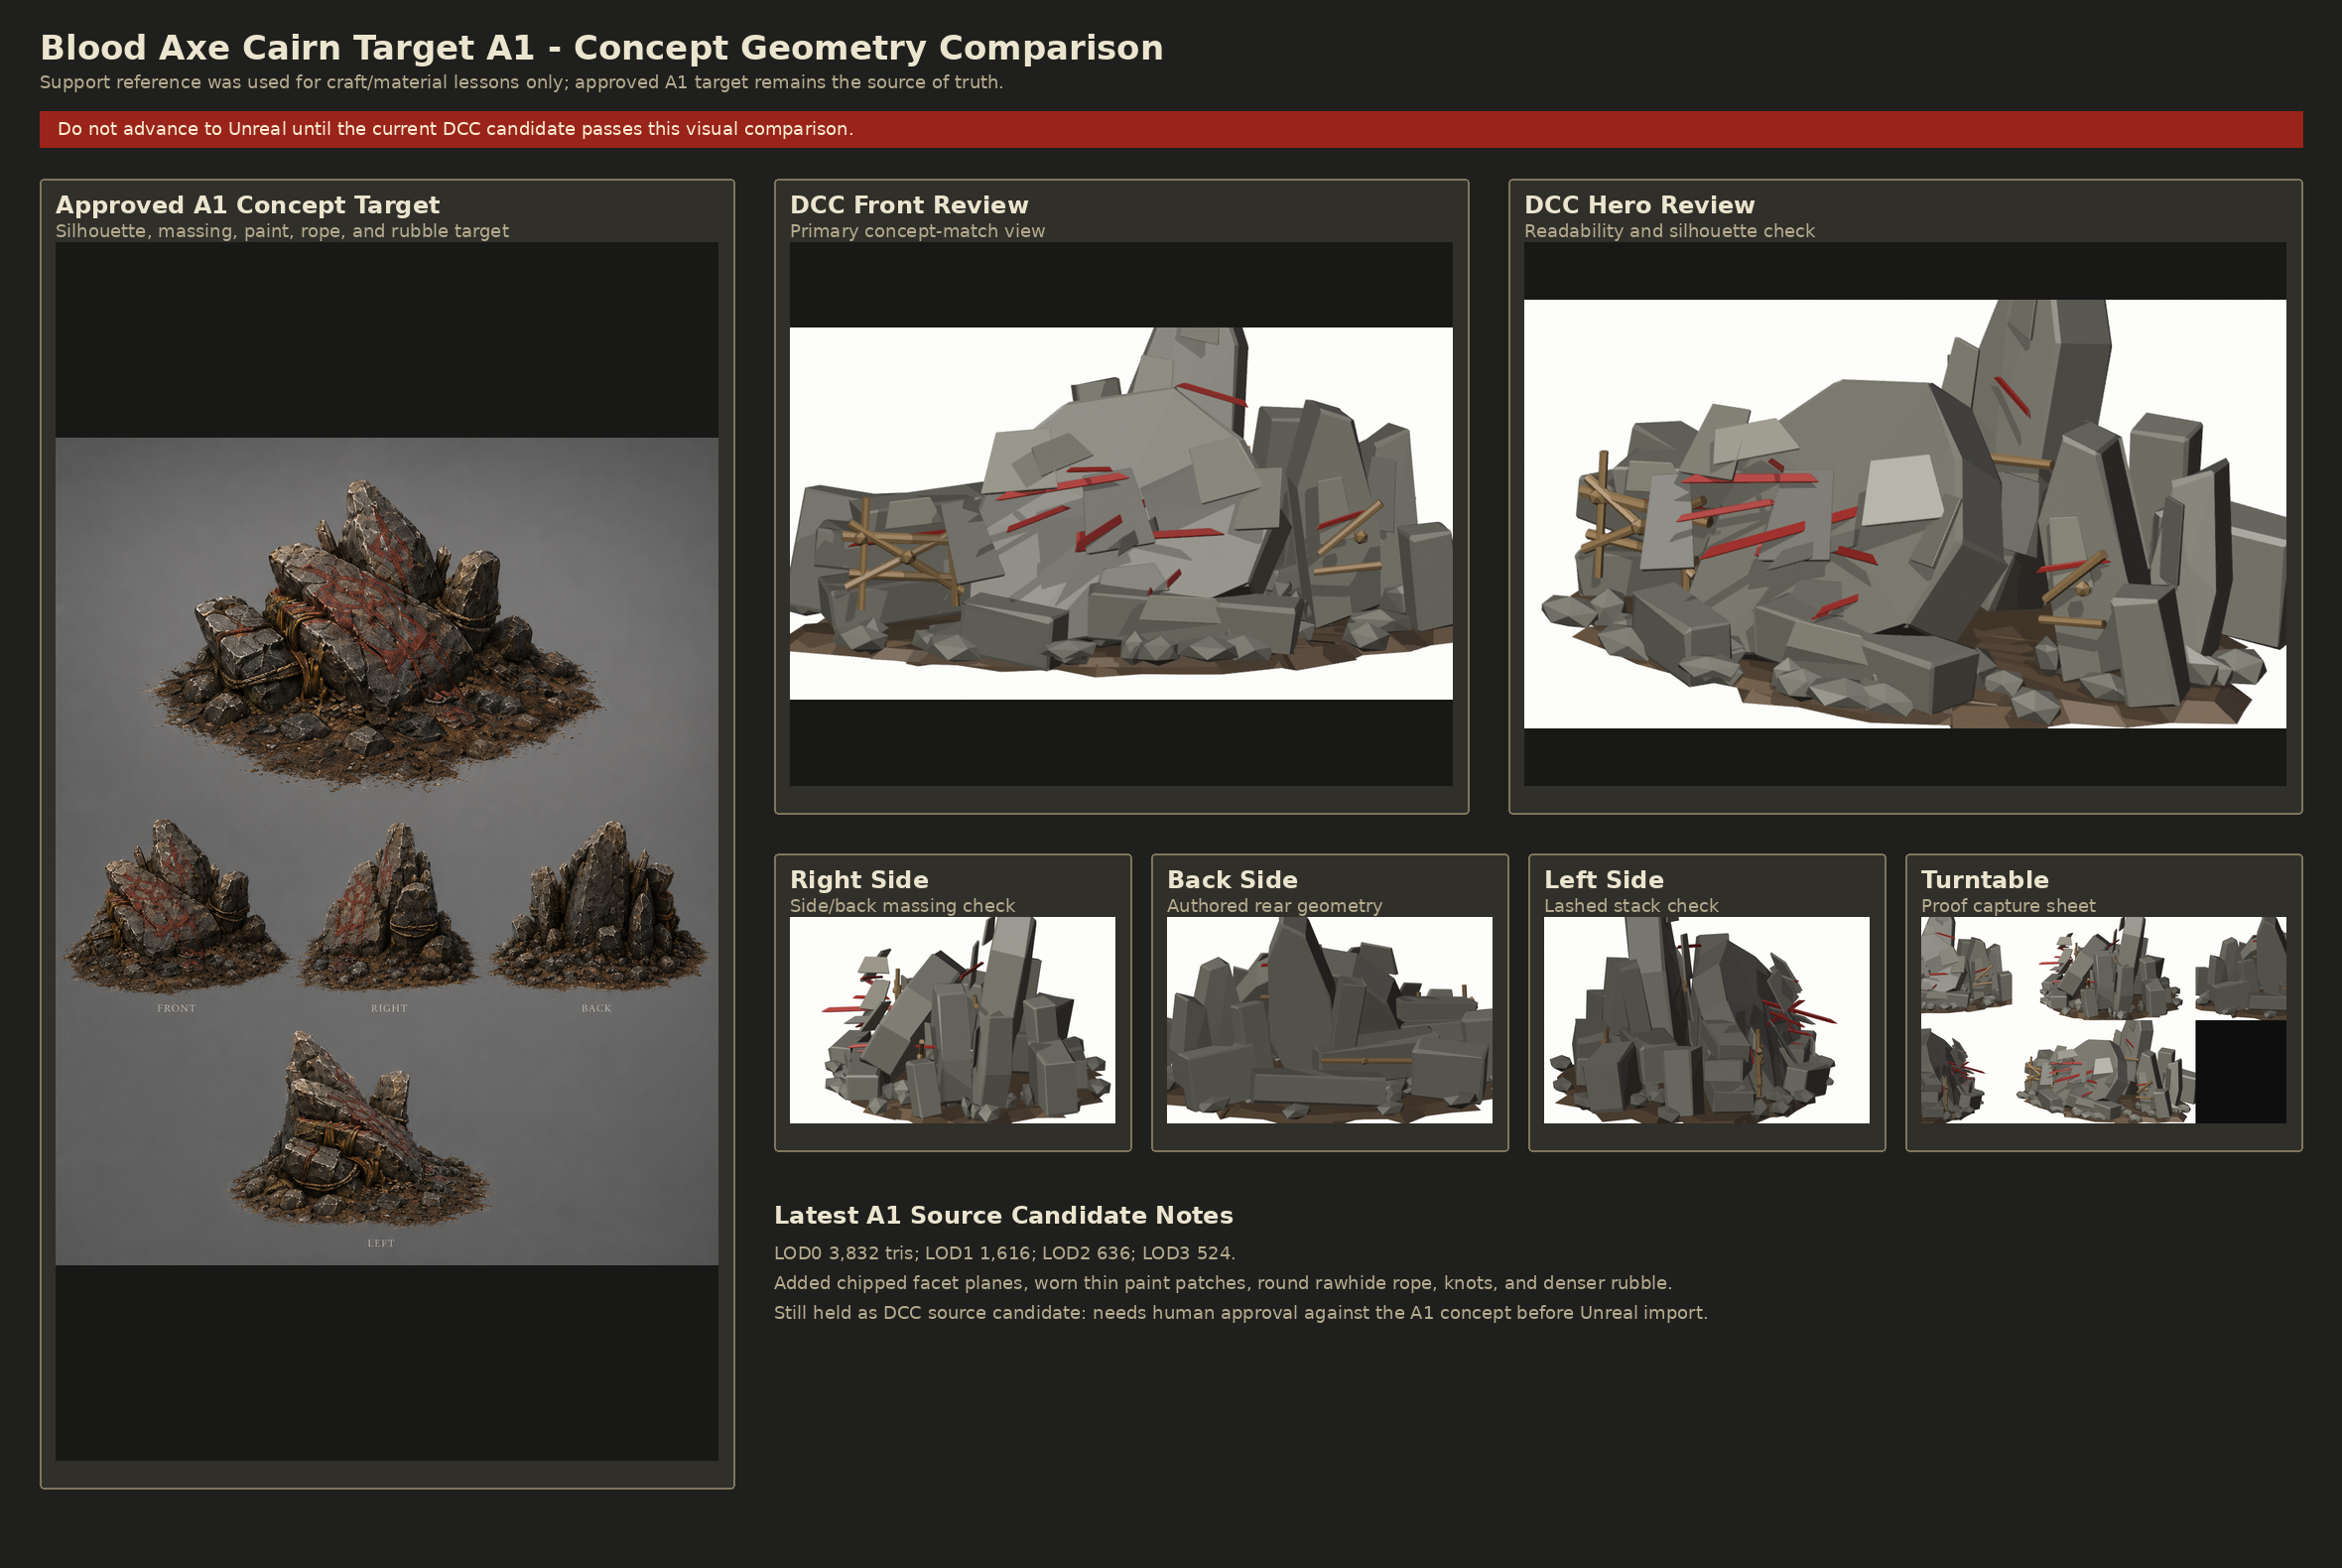
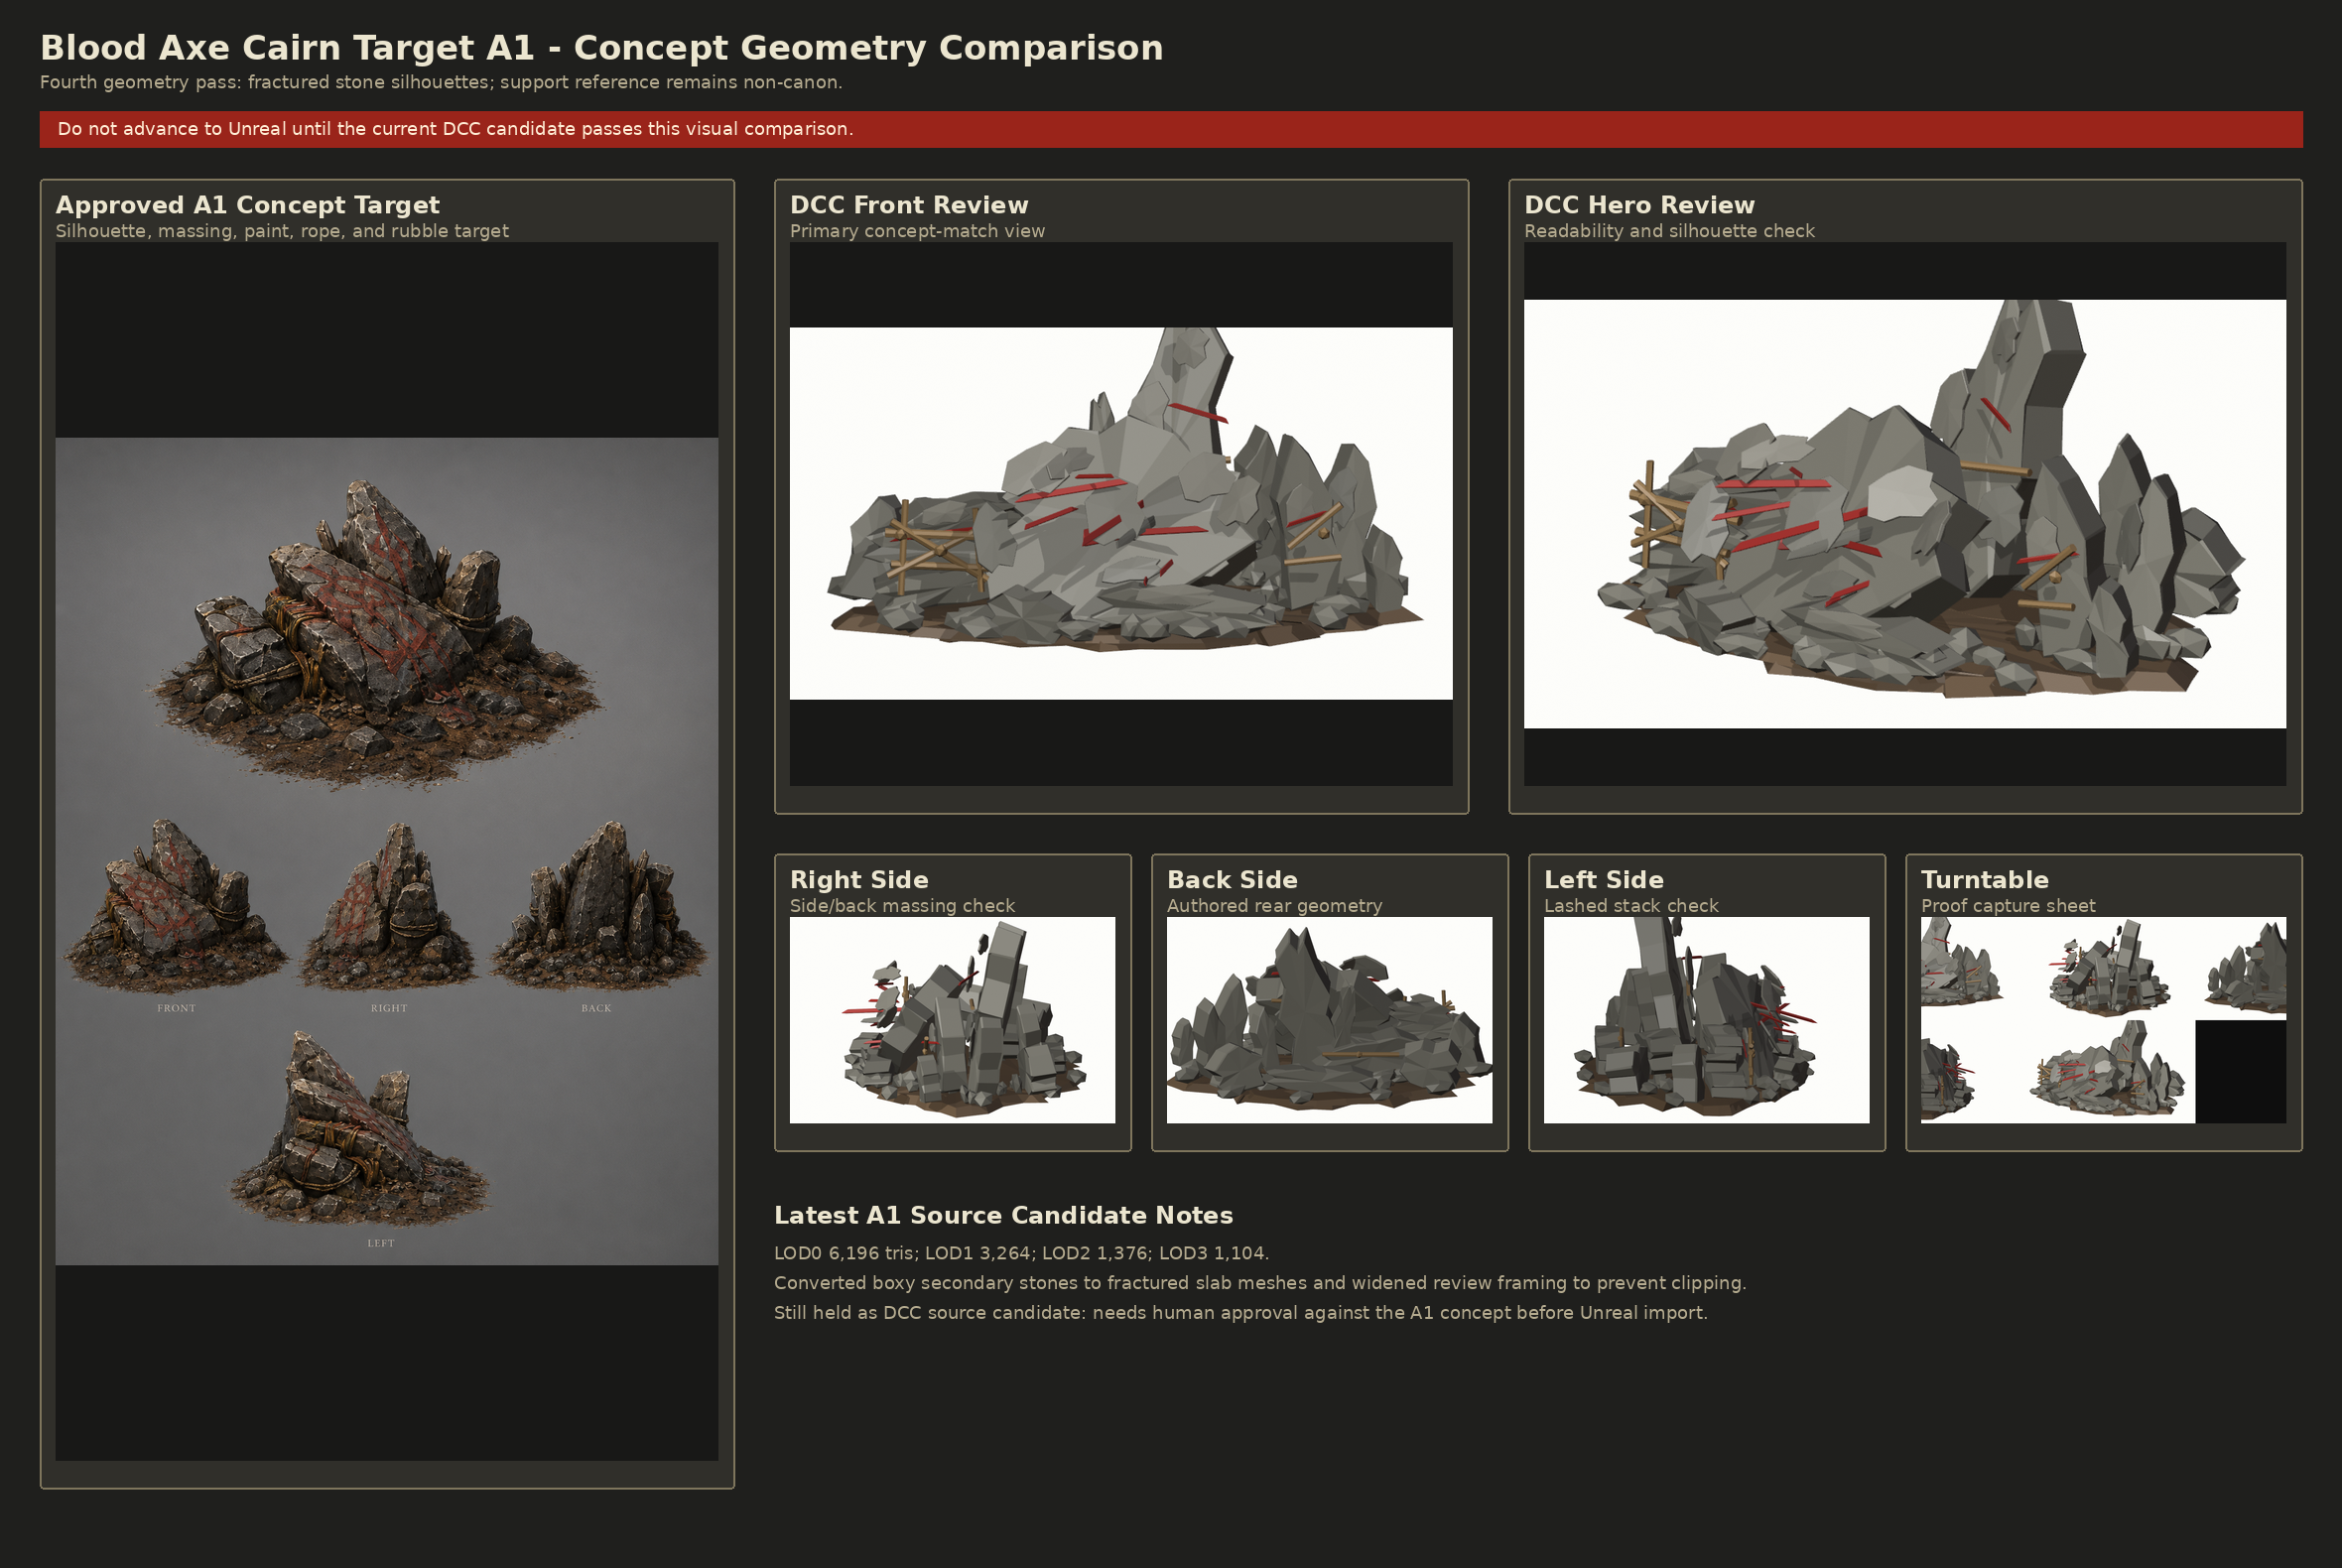
Refine Blood Axe A1 cairn geometry

diff --git a/Tools/DCC/build_bloodaxe_cairn_target_a1.py b/Tools/DCC/build_bloodaxe_cairn_target_a1.py
@@ -140,13 +140,13 @@ def make_materials(texture_paths: dict[str, dict[str, Path]]) -> dict[str, bpy.t
             "M_GIA_BloodAxeCairnTarget_A1_A01_StoneFacetLight",
             texture_paths["stone"],
             0.9,
-            (0.64, 0.59, 0.48),
+            (0.57, 0.53, 0.44),
         ),
         "stone_dark": make_texture_material(
             "M_GIA_BloodAxeCairnTarget_A1_A01_StoneFacetDark",
             texture_paths["stone"],
             0.93,
-            (0.34, 0.32, 0.27),
+            (0.38, 0.36, 0.30),
         ),
         "earth": make_texture_material("M_GIA_BloodAxeCairnTarget_A1_A01_Earth", texture_paths["earth"], 0.95, (0.32, 0.20, 0.11)),
         "rawhide": make_texture_material("M_GIA_BloodAxeCairnTarget_A1_A01_Rawhide", texture_paths["rawhide"], 0.86, (0.66, 0.40, 0.17)),
@@ -408,19 +408,28 @@ def add_surface_facet(
     rotation: tuple[float, float, float],
     seed: int,
 ) -> bpy.types.Object:
-    return add_tapered_slab(
+    facet_outline = [
+        (-0.50, -0.34),
+        (-0.27, -0.50),
+        (-0.04, -0.41),
+        (0.24, -0.49),
+        (0.50, -0.18),
+        (0.38, 0.08),
+        (0.47, 0.30),
+        (0.12, 0.51),
+        (-0.18, 0.40),
+        (-0.44, 0.20),
+    ]
+    return add_fractured_slab(
         name,
         collection,
         material,
         location,
         dimensions,
         rotation,
+        facet_outline,
         seed,
-        top_scale_x=0.70,
-        top_scale_y=0.90,
-        top_offset=((deterministic_noise(seed, 1, 43) - 0.5) * dimensions[0] * 0.12, 0.0),
-        bevel_scale=0.07,
-        rough_scale=0.05,
+        rough_scale=0.035,
     )
 
 
@@ -508,106 +517,141 @@ def build_asset_lod(collection: bpy.types.Collection, materials: dict[str, bpy.t
     mid = lod <= 1
     low = lod <= 2
 
+    broad_front_outline = [
+        (-0.53, -0.42),
+        (-0.39, -0.56),
+        (-0.20, -0.50),
+        (-0.06, -0.57),
+        (0.18, -0.49),
+        (0.35, -0.39),
+        (0.55, -0.18),
+        (0.46, -0.02),
+        (0.53, 0.15),
+        (0.34, 0.25),
+        (0.25, 0.43),
+        (0.08, 0.56),
+        (-0.07, 0.48),
+        (-0.20, 0.55),
+        (-0.32, 0.34),
+        (-0.48, 0.22),
+        (-0.38, 0.06),
+        (-0.55, -0.06),
+    ]
+    tall_crag_outline = [
+        (-0.42, -0.50),
+        (0.18, -0.52),
+        (0.38, -0.39),
+        (0.28, -0.21),
+        (0.49, -0.02),
+        (0.30, 0.19),
+        (0.36, 0.39),
+        (0.08, 0.58),
+        (-0.05, 0.48),
+        (-0.20, 0.55),
+        (-0.34, 0.31),
+        (-0.50, 0.12),
+        (-0.39, -0.04),
+        (-0.52, -0.28),
+    ]
+    support_crag_outline = [
+        (-0.45, -0.50),
+        (0.30, -0.49),
+        (0.48, -0.29),
+        (0.36, -0.10),
+        (0.51, 0.10),
+        (0.24, 0.42),
+        (-0.03, 0.54),
+        (-0.26, 0.35),
+        (-0.47, 0.18),
+        (-0.38, -0.06),
+    ]
+    low_slab_outline = [
+        (-0.52, -0.42),
+        (-0.37, -0.53),
+        (-0.12, -0.46),
+        (0.09, -0.54),
+        (0.38, -0.42),
+        (0.55, -0.14),
+        (0.43, 0.11),
+        (0.51, 0.31),
+        (0.18, 0.52),
+        (-0.07, 0.43),
+        (-0.30, 0.53),
+        (-0.50, 0.20),
+        (-0.40, -0.03),
+    ]
+
     fractured_specs = [
         (
             "DominantDiagonalFrontSlab",
-            (2, -43, 77),
-            (184, 36, 144),
-            (math.radians(-31), math.radians(-8), math.radians(-10)),
-            [
-                (-0.52, -0.43),
-                (-0.36, -0.55),
-                (0.08, -0.52),
-                (0.41, -0.37),
-                (0.54, -0.05),
-                (0.42, 0.24),
-                (0.18, 0.54),
-                (-0.14, 0.49),
-                (-0.36, 0.28),
-                (-0.50, 0.02),
-            ],
+            (0, -43, 72),
+            (176, 34, 136),
+            (math.radians(-32), math.radians(-9), math.radians(-12)),
+            broad_front_outline,
             201,
         ),
         (
             "TallRearOathSlab",
-            (36, 52, 112),
-            (74, 38, 184),
-            (math.radians(-10), math.radians(7), math.radians(-13)),
-            [
-                (-0.45, -0.47),
-                (0.31, -0.50),
-                (0.47, -0.18),
-                (0.38, 0.31),
-                (0.10, 0.56),
-                (-0.24, 0.44),
-                (-0.48, 0.03),
-            ],
+            (36, 52, 108),
+            (70, 34, 178),
+            (math.radians(-12), math.radians(8), math.radians(-11)),
+            tall_crag_outline,
             202,
         ),
         (
             "RightUprightSupportStone",
-            (122, -4, 76),
-            (48, 32, 124),
+            (124, -6, 72),
+            (42, 30, 116),
             (math.radians(2), math.radians(-8), math.radians(13)),
-            [
-                (-0.45, -0.50),
-                (0.36, -0.47),
-                (0.50, -0.12),
-                (0.32, 0.45),
-                (-0.04, 0.52),
-                (-0.44, 0.20),
-            ],
+            support_crag_outline,
             206,
         ),
         (
             "RightRearSupportStone",
-            (152, 39, 68),
-            (38, 30, 104),
+            (153, 38, 64),
+            (34, 28, 96),
             (math.radians(-5), math.radians(6), math.radians(20)),
-            [
-                (-0.42, -0.50),
-                (0.36, -0.47),
-                (0.48, -0.10),
-                (0.20, 0.51),
-                (-0.36, 0.37),
-                (-0.50, -0.06),
-            ],
+            support_crag_outline,
             207,
         ),
     ]
-    primary_specs = [
-        ("LeftBundledStackLowSlab", (-117, -25, 34), (112, 44, 24), (math.radians(2), math.radians(-7), math.radians(8)), 203),
-        ("LeftBundledStackMidSlab", (-127, -26, 57), (98, 40, 22), (math.radians(-1), math.radians(5), math.radians(-6)), 204),
-        ("LeftBundledStackTopSlab", (-112, -23, 79), (84, 35, 20), (math.radians(4), math.radians(-5), math.radians(13)), 205),
-        ("RearLowCounterweight", (-42, 56, 48), (132, 42, 42), (math.radians(-4), math.radians(4), math.radians(10)), 208),
+    secondary_fractured_specs = [
+        ("LeftBundledStackLowSlab", (-117, -25, 33), (112, 42, 24), (math.radians(2), math.radians(-7), math.radians(8)), low_slab_outline, 203),
+        ("LeftBundledStackMidSlab", (-127, -26, 56), (96, 38, 22), (math.radians(-1), math.radians(5), math.radians(-6)), low_slab_outline, 204),
+        ("LeftBundledStackTopSlab", (-112, -23, 78), (82, 34, 20), (math.radians(4), math.radians(-5), math.radians(13)), low_slab_outline, 205),
+        ("RearLowCounterweight", (-42, 56, 47), (130, 40, 40), (math.radians(-4), math.radians(4), math.radians(10)), low_slab_outline, 208),
     ]
+    primary_specs: list[tuple[str, tuple[float, float, float], tuple[float, float, float], tuple[float, float, float], int]] = []
     if low:
-        primary_specs.extend(
+        secondary_fractured_specs.extend(
             [
-                ("FrontBrokenFootStone", (42, -92, 30), (122, 34, 28), (math.radians(3), math.radians(4), math.radians(-5)), 209),
-                ("RearGroundLockStone", (26, 118, 33), (142, 36, 30), (math.radians(2), math.radians(-4), math.radians(2)), 210),
+                ("FrontBrokenFootStone", (42, -92, 28), (118, 32, 26), (math.radians(3), math.radians(4), math.radians(-5)), low_slab_outline, 209),
+                ("RearGroundLockStone", (26, 118, 31), (138, 34, 28), (math.radians(2), math.radians(-4), math.radians(2)), low_slab_outline, 210),
             ]
         )
     if mid:
-        primary_specs.extend(
+        secondary_fractured_specs.extend(
             [
-                ("LeftBackBrokenShard", (-166, 20, 48), (42, 32, 72), (math.radians(-7), math.radians(8), math.radians(-18)), 211),
-                ("RearNeedleShardLeft", (-8, 72, 91), (26, 22, 96), (math.radians(-11), math.radians(-7), math.radians(7)), 212),
-                ("RearNeedleShardRight", (92, 92, 78), (30, 24, 80), (math.radians(8), math.radians(5), math.radians(21)), 213),
+                ("LeftBackBrokenShard", (-166, 20, 47), (38, 30, 70), (math.radians(-7), math.radians(8), math.radians(-18)), support_crag_outline, 211),
+                ("RearNeedleShardLeft", (-8, 72, 91), (24, 20, 94), (math.radians(-11), math.radians(-7), math.radians(7)), tall_crag_outline, 212),
+                ("RearNeedleShardRight", (92, 92, 77), (28, 22, 78), (math.radians(8), math.radians(5), math.radians(21)), support_crag_outline, 213),
             ]
         )
     if detail:
-        primary_specs.extend(
+        secondary_fractured_specs.extend(
             [
-                ("FrontLeftGroundShard", (-62, -107, 25), (58, 26, 32), (math.radians(5), math.radians(7), math.radians(-23)), 214),
-                ("FarRightSmallSupportShard", (179, -34, 44), (27, 24, 58), (math.radians(5), math.radians(-8), math.radians(18)), 215),
-                ("BackLeftButtressShard", (-116, 95, 41), (74, 38, 54), (math.radians(-8), math.radians(-4), math.radians(-14)), 216),
-                ("BackRightButtressShard", (128, 102, 44), (74, 34, 58), (math.radians(5), math.radians(7), math.radians(14)), 217),
+                ("FrontLeftGroundShard", (-62, -107, 24), (56, 24, 30), (math.radians(5), math.radians(7), math.radians(-23)), low_slab_outline, 214),
+                ("FarRightSmallSupportShard", (179, -34, 43), (24, 22, 56), (math.radians(5), math.radians(-8), math.radians(18)), support_crag_outline, 215),
+                ("BackLeftButtressShard", (-116, 95, 40), (70, 36, 52), (math.radians(-8), math.radians(-4), math.radians(-14)), low_slab_outline, 216),
+                ("BackRightButtressShard", (128, 102, 43), (70, 32, 56), (math.radians(5), math.radians(7), math.radians(14)), support_crag_outline, 217),
             ]
         )
 
     for label, location, dimensions, rotation, outline, seed in fractured_specs:
         objects.append(add_fractured_slab(f"{prefix}_Stone_{label}", collection, materials["stone"], location, dimensions, rotation, outline, seed + lod * 31))
+
+    for label, location, dimensions, rotation, outline, seed in secondary_fractured_specs:
+        objects.append(add_fractured_slab(f"{prefix}_Stone_{label}", collection, materials["stone"], location, dimensions, rotation, outline, seed + lod * 31, rough_scale=0.12))
 
     for label, location, dimensions, rotation, seed in primary_specs:
         objects.append(add_rough_box(f"{prefix}_Stone_{label}", collection, materials["stone"], location, dimensions, rotation, seed + lod * 31))
@@ -878,7 +922,7 @@ def configure_review_scene() -> tuple[bpy.types.Object, Vector]:
     camera = bpy.context.object
     camera.name = "AET_DCC_ReviewCamera"
     camera.data.type = "ORTHO"
-    camera.data.ortho_scale = 385.0
+    camera.data.ortho_scale = 455.0
     camera.data.lens = 45
     camera.data.sensor_width = 32
     bpy.context.scene.camera = camera

diff --git a/docs/assets/props/SM_GIA_BloodAxeCairnTarget_A1_A01/DCC_BUILD_STATUS.md b/docs/assets/props/SM_GIA_BloodAxeCairnTarget_A1_A01/DCC_BUILD_STATUS.md
@@ -18,10 +18,10 @@
 - DCC render root: `Saved/Automation/DCC/SM_GIA_BloodAxeCairnTarget_A1_A01/`
 - Concept comparison: `docs/assets/props/SM_GIA_BloodAxeCairnTarget_A1_A01/SM_GIA_BloodAxeCairnTarget_A1_A01_ConceptGeometryCompare.png`
 - DCC target-layout proof: `docs/assets/props/SM_GIA_BloodAxeCairnTarget_A1_A01/SM_GIA_BloodAxeCairnTarget_A1_A01_DCCProofTargetLayout.png`
-- LOD0: 3832 tris
-- LOD1: 1616 tris
-- LOD2: 636 tris
-- LOD3: 524 tris
+- LOD0: 6196 tris
+- LOD1: 3264 tris
+- LOD2: 1376 tris
+- LOD3: 1104 tris
 
 ## Second Geometry Pass
 
@@ -40,6 +40,15 @@
 - Reworked red marks as thinner worn paint patches instead of heavy raised bars.
 - Increased loose ground rubble density and regenerated all DCC proof captures.
 - Kept the asset in the small prop budget at LOD0 3832 tris.
+
+## Fourth Geometry Pass
+
+- Converted the left lashed stack, rear counterweight, front foot stones, rear lock stones, and side buttresses from clean beveled boxes into fractured slab meshes.
+- Recut the dominant front slab, tall rear oath slab, and right support stones with sharper jagged outlines so the silhouette changes, not only the surface detail.
+- Replaced rectangular-looking chipped facet patches with lower-contrast jagged fracture patches.
+- Increased DCC review camera framing so the tall rear slab is no longer clipped in front, side, back, left, hero, or turntable proof images.
+- Regenerated the Blender source, FBX exports, LOD exports, DCC proof renders, target-layout proof, and concept comparison sheet.
+- Triangle budget moved from small-prop range into the approved large-prop range from the concept brief: LOD0 6196 tris, LOD1 3264, LOD2 1376, LOD3 1104.
 
 ## Gate
 
@@ -60,7 +69,7 @@ This asset intentionally starts a new clean lane instead of reusing the older `S
 
 ## Review Result
 
-The third-pass A1 DCC source candidate is useful as a geometry planning proof, but it should not pass concept-geometry approval yet.
+The fourth-pass A1 DCC source candidate is now a useful concept-geometry review candidate, but it should not move to Unreal import or `DCC game-ready candidate` status without Flamestrike approval against the A1 target.
 
 What it captures:
 
@@ -74,15 +83,16 @@ What it captures:
 - More reviewable DCC proof captures for front/right/back/left/hero orientation.
 - Rounder rope binding volumes and more rubble density than the second pass.
 - Red marks now read more like worn applied pigment than the earlier raised bars.
+- Major secondary stones now use fractured silhouettes instead of clean beveled box silhouettes.
+- Review captures are fully framed and no longer clip the tall rear slab.
 
 Remaining gaps before approval:
 
-- Stone forms are improved but still too clean, blocky, and planar compared with the concept's fractured natural slabs.
-- Front slab still needs more asymmetric chipped edges, concave breaks, and broken face planes that affect the base silhouette, not only surface facets.
-- Rear and side stones are in the right lane, but need more organic proportion and less blockout-like vertical massing.
-- Red paint is thinner, but should be pushed closer to stained/dry-brushed pigment once the stone geometry is approved.
-- Rope bindings now have round volume, but the wrap paths still need better contact around the actual slab shapes after the next stone pass.
+- Stone silhouette is much closer, but still lacks the concept's hand-authored natural stone breakup and texture-level chipped erosion.
+- Red paint is readable, but still needs texture/material treatment to become stained/dry-brushed pigment instead of raised proof geometry.
+- Rope bindings have round volume, but their contact and wrapping paths should be refined after geometry approval.
 - Ground rubble density is better, but the mound still needs a more natural dirt/stone blend around the footprint.
+- Current proof material is intentionally simple DCC review shading; final material work is still pending.
 
 Decision: hold at `DCC source candidate pending concept-geometry review`; do not import to Unreal yet. This is not a `DCC game-ready candidate` and not `Fully game-ready`.
 

diff --git a/docs/projects/assetforge/RECOVERY_JOURNAL.md b/docs/projects/assetforge/RECOVERY_JOURNAL.md
@@ -241,3 +241,13 @@ Heavy raw outputs remain in ignored `Saved/AssetForgeResearch/` paths. This file
   - `Saved/ProjectRecovery/20260703-132445/recent_project_files.txt`
   - `Saved/ProjectRecovery/20260703-132445/assetforge_recent_saved_outputs.txt`
 - Next resume step: read this entry, then inspect the snapshot folder before continuing any interrupted long job.
+
+### 2026-07-03 13:34:04 EDT -0400 - post Blood Axe A1 fourth geometry pass
+
+- Snapshot: `Saved/ProjectRecovery/20260703-133404/`
+- Git: branch `main`, HEAD `6d0ba7c`, status lines `12`
+- Recovery files:
+  - `Saved/ProjectRecovery/20260703-133404/git_status_short.txt`
+  - `Saved/ProjectRecovery/20260703-133404/recent_project_files.txt`
+  - `Saved/ProjectRecovery/20260703-133404/assetforge_recent_saved_outputs.txt`
+- Next resume step: read this entry, then inspect the snapshot folder before continuing any interrupted long job.

diff --git a/docs/assets/VISUAL_CANON_REGISTRY.md b/docs/assets/VISUAL_CANON_REGISTRY.md
@@ -26,7 +26,7 @@ This registry records concept images and selected variants that define Aerathea'
 | Candidate ID | Status | Scope | Source or board | Selection state | Keeper features | Production use |
 | --- | --- | --- | --- | --- | --- | --- |
 | `VC-GIA-BloodAxe-CairnStones-A01-A1-BacksideRepair` | repair candidate pending approval; not canon | A1 Blood Axe cairn slab cluster static prop repair | `Saved/Automation/DCC/SM_GIA_BloodAxeCairnSlabCluster_A01_BacksideRepair/SM_GIA_BloodAxeCairnSlabCluster_A01_BacksideRepair_BacksideRepairTurntableReview.png` | Created after Flamestrike requested a complete repair run for the failed backside | Preserve A1 front read while adding real rear counterweight/support stones, rear paint/lashing treatment, deeper mud/ash grounding, and updated collision depth | Pending DCC proof, Unreal import validation, startup capture, and Flamestrike visual approval |
-| `SM-GIA-BloodAxeCairnTarget-A1-A01-DCCProof` | DCC source candidate pending concept-geometry review; not canon | Blood Axe cairn target A1 static prop rebuild | `docs/assets/props/SM_GIA_BloodAxeCairnTarget_A1_A01/SM_GIA_BloodAxeCairnTarget_A1_A01_ConceptGeometryCompare.png` | Created from the clearer `BloodAxe A1` target set on 2026-07-03 | Establishes a clean A1 rebuild lane with dominant front slab, rear slab, left lashed stack, right supports, and authored 360-degree massing; still too blocky for approval | Use as first DCC source proof and revision base only; not approved visual canon and not ready for Unreal import |
+| `SM-GIA-BloodAxeCairnTarget-A1-A01-DCCProof` | DCC source candidate pending concept-geometry review; not canon | Blood Axe cairn target A1 static prop rebuild | `docs/assets/props/SM_GIA_BloodAxeCairnTarget_A1_A01/SM_GIA_BloodAxeCairnTarget_A1_A01_ConceptGeometryCompare.png` | Created from the clearer `BloodAxe A1` target set on 2026-07-03; fourth geometry pass regenerated proof on 2026-07-03 | Establishes a clean A1 rebuild lane with dominant front slab, rear slab, left lashed stack, right supports, authored 360-degree massing, and more fractured large-stone silhouettes; still pending concept-geometry approval | Use as current DCC source proof and revision base only; not approved visual canon and not ready for Unreal import |
 
 ## Rejected Or Requested-Change References
 